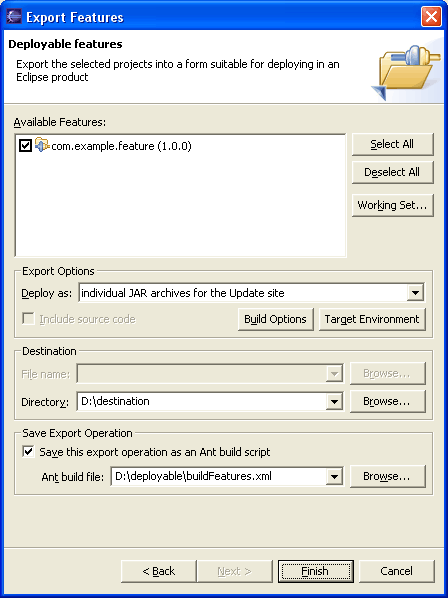
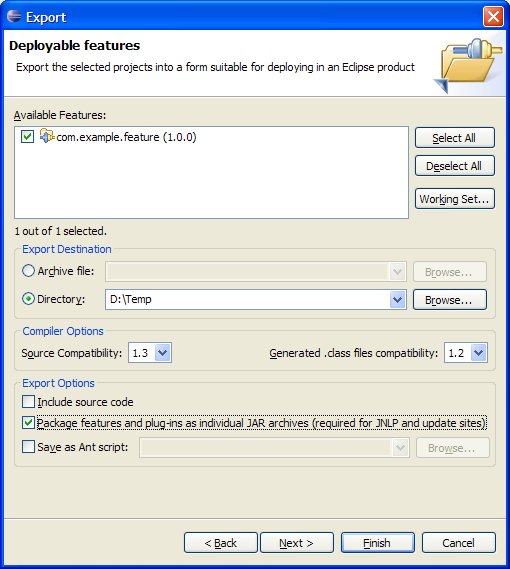
*** empty log message ***

Changed region(s): [[0.0, 0.0, 1.0, 0.8366], [0.0, 0.8963, 1.0, 1.0]]

diff --git a/bundles/org.eclipse.pde.doc.user/guide/pde_feature_generating.htm b/bundles/org.eclipse.pde.doc.user/guide/pde_feature_generating.htm
@@ -9,10 +9,7 @@
 
 <BODY BGCOLOR="#ffffff">
 
-<h2>Deploying a Feature</h2>
-
-<p>Once versions are synchronized, we can package our feature in the format fit 
-for publishing.&nbsp; </p>
+<h2>Exporting a Feature</h2>
 
 <p>First you have to set up the build configuration.&nbsp;&nbsp; The build 
 configuration includes information about the files and directories that should 
@@ -23,25 +20,21 @@ details.</p>
 
 Then you can use PDE's Export Deployable Features wizard to build and export the 
 feature.&nbsp; This way you are shielded from Ant scripts and your workspace is 
-never polluted with build by-products.<ol>
-  <li>Select <b>File&gt;Export...&gt;Deployable Features</b>.</li>
-  <li>Select the feature(s) you want to export.&nbsp; </li>
-</ol>
-<p align="center">
-<img border="0" src="images/feature-export.png" alt="Export Features wizard" ></p>
-<p>&nbsp;</p>
+never polluted with build by-products. 
+<p>Select <b>File &gt; Export... &gt; Deployable Features</b>.</p>
+<p>Select the feature(s) you want to export. </p>
+<p>A feature can be exported to an archive or a directory.</p>
+<p>To publish a feature to an update site, the feature and its includes plug-ins 
+  must be packaged as individual JAR archives.</p>
+<p align="center"> <img border="0" src="images/feature-export.png" alt="Export Features wizard" ></p>
+<p align="left">Press <strong>Next</strong>.</p>
+<p align="center"><img src="images/jnlp.PNG" alt="JNLP manifest generation"></p>
+<p>You have the option to sign the JARs for added security. You also have the 
+  option to generate JNLP manifests for <a href="../../org.eclipse.platform.doc.isv/guide/java_web_start.htm">Java 
+  Web Start deployment</a>.</p>
 <p>The wizard will build all the features selected and their included plug-ins 
-and fragments.&nbsp; </p>
-<p>If the 'single deployable zip file' option is selected, everything will go 
-into one zip file, which can then be unzipped into any Eclipse product.&nbsp;
-</p>
-<p>If the 'update JAR archives' option is selected, the wizard will create a JAR 
-for every feature selected.&nbsp; The JAR name will be of the format: <b>&lt;feature_id&gt;_&lt;feature_version&gt;.jar</b>, 
-and will be placed in a <b>features/</b> sub-directory of the directory you 
-specified in the wizard.&nbsp; The wizard will also create a JAR for every 
-plug-in or fragment included in the feature.&nbsp; The JAR name will be of the 
-format <b>&lt;id&gt;_&lt;version&gt;</b>.jar, and will be placed in a <b>plug-ins/ </b>
-sub-directory of the directory you specified.</p>
+  and fragments.&nbsp; Features go into a features/ subdirectory and plug-ins 
+  go into a plugins/ subdirectory.</p>
 <p>&nbsp;</p>
 <p>The alternative would be to build features manually:</p>
 <ol>
